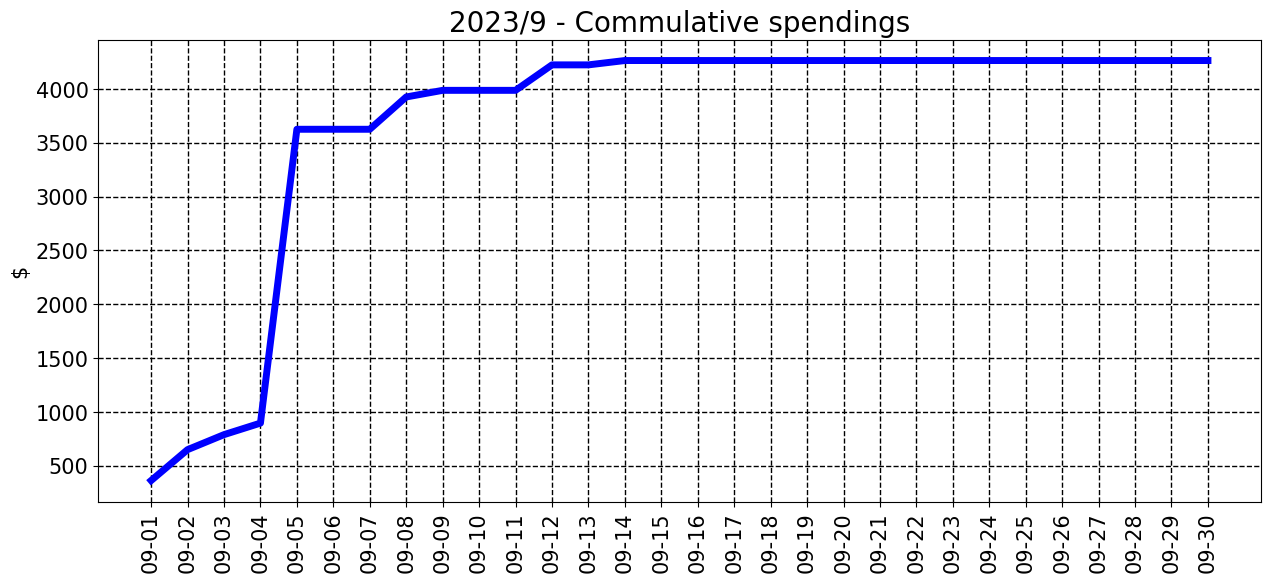
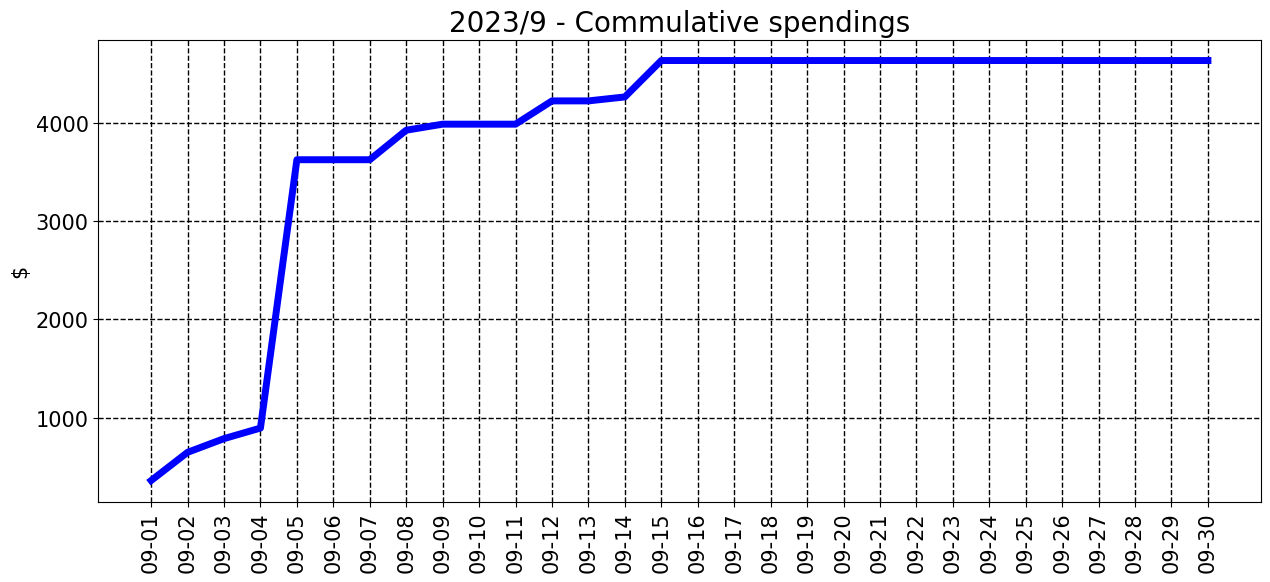
commit from python

Changed region(s): [[0.0307, 0.0928, 0.9827, 0.6495], [0.0307, 0.6804, 0.9827, 0.8351]]

diff --git a/README.md b/README.md
@@ -7,7 +7,7 @@ __________________________________
 <sub><sup>
 | Spent | Avg daily | End of month projection | Spent since 2023/7 |
 |---|---|---|---|
-| $4263.0  |  $304.5  | $9135.0  |  $9488.0  |
+| $4634.0  |  $308.9  | $9267.0  |  $9858.0  |
 </sub></sup>
 __________________________________
 ![graph_9_sum](graph_9_sum.png)
